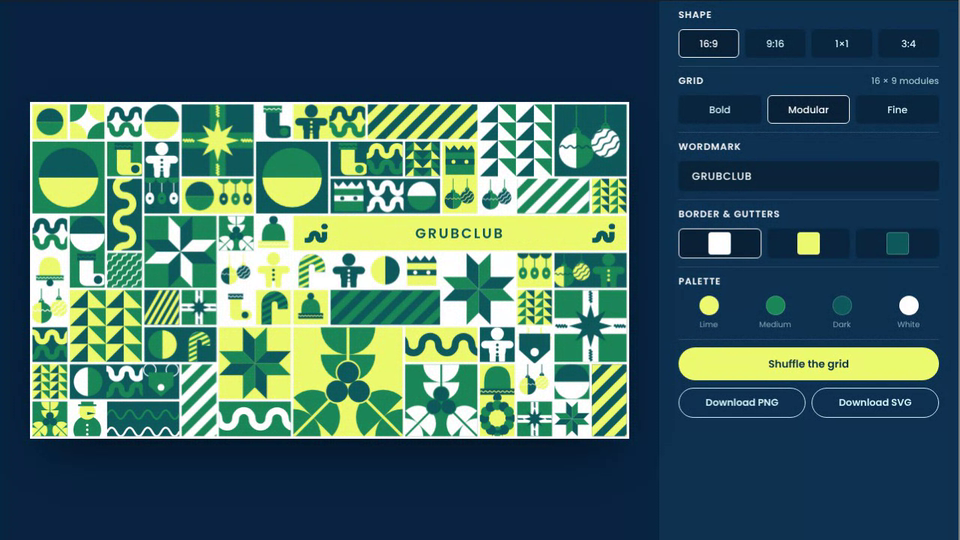
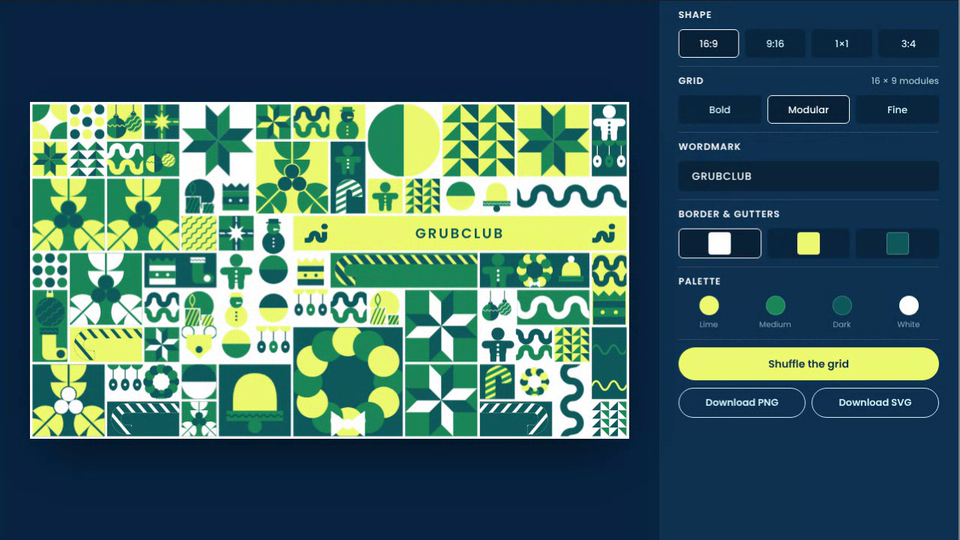
Grubclub Holiday Grid: sideways candy cane rectangle, double candle and elf redrawn from references
Claude-Session: https://claude.ai/code/session_01AHeBdyRCcuLFjvrTGpsW3f

Changed region(s): [[0.0312, 0.1778, 0.6562, 0.8296]]

diff --git a/grubclub-holiday/index.html b/grubclub-holiday/index.html
@@ -149,11 +149,14 @@ const ICON = {
   /* wrapped gift: full tile, ribbon cross, star bow */
   /* thick candy cane with diagonal stripes */
   cane: (k) => { const id = 'cm' + (uid++), d = 'M32 104 V42 A21 21 0 0 1 74 42 V54'; return `<mask id="${id}"><path d="${d}" stroke="#fff" stroke-width="26" fill="none"/></mask><path d="${d}" stroke="${k.a}" stroke-width="26" fill="none"/><g mask="url(#${id})">${Array.from({ length: 16 }, (_, i) => `<path d="M-10 ${i * 17 - 10} L110 ${i * 17 - 70}" stroke="${k.b}" stroke-width="7"/>`).join('')}</g>`; },
-  candle: (k) => `<rect x="30" y="42" width="40" height="58" fill="${k.a}"/><path d="M30 84 L70 60 M30 100 L70 76 M30 68 L70 44" stroke="${k.bg}" stroke-width="2.6" fill="none" clip-path="inset(0)"/>` +
-    `<path d="M50 6 Q66 22 50 38 Q34 22 50 6Z" fill="none" stroke="${k.x}" stroke-width="3.6" stroke-linejoin="round"/>` + line('M50 38 V44', k.a, 3),
+  /* two candles, a tall and a short, striped bodies and outlined flames on a round backdrop; bleeds off the bottom */
+  candle: (k) => { const c1 = 'cd' + (uid++), c2 = 'cd' + (uid++), st = (x0, y0, w2, h2, col, id) => `<clipPath id="${id}"><rect x="${x0}" y="${y0}" width="${w2}" height="${h2}"/></clipPath><g clip-path="url(#${id})">${Array.from({ length: 9 }, (_, i) => `<path d="M${x0 - 6 + i * 11} ${y0 + h2 + 4} L${x0 + 30 + i * 11} ${y0 - 30}" stroke="${col}" stroke-width="3.4"/>`).join('')}</g>`;
+    return circ(50, 44, 41, k.a) + `<rect x="10" y="52" width="42" height="52" fill="${k.a}" stroke="${k.bg}" stroke-width="3.6"/>` + st(10, 52, 42, 52, k.b, c1) + `<rect x="58" y="70" width="32" height="34" fill="${k.b}" stroke="${k.bg}" stroke-width="3.6"/>` + st(58, 70, 32, 34, k.a, c2) +
+      `<path d="M31 12 Q45 28 31 44 Q17 28 31 12Z" fill="none" stroke="${k.b}" stroke-width="2.8" stroke-linejoin="round"/><path d="M31 44 V52" stroke="${k.b}" stroke-width="2.8" stroke-linecap="round"/>` +
+      `<path d="M74 50 Q83 59 74 67 Q65 59 74 50Z" fill="none" stroke="${k.a}" stroke-width="2.6" stroke-linejoin="round"/><path d="M74 67 V70" stroke="${k.a}" stroke-width="2.6" stroke-linecap="round"/>`; },
   stocking: (k) => `<path d="M30 22 H66 V60 H84 A16 16 0 0 1 84 92 H46 A16 16 0 0 1 30 76Z" fill="${k.a}"/><rect x="24" y="8" width="48" height="18" fill="${k.b}"/>` + zig(24, 72, 17, 3.4, 4, k.bg, 2.4) + circ(78, 76, 11, k.b),
-  elf: (k) => poly([[10, 10], [22, 24], [34, 10], [46, 24], [58, 10], [70, 24], [82, 10], [90, 24], [90, 32], [10, 32]], k.b) +
-    `<rect x="10" y="30" width="80" height="62" fill="${k.a}"/><rect x="10" y="48" width="80" height="16" fill="${k.b}"/>` + circ(32, 56, 5.5, k.bg) + circ(68, 56, 5.5, k.bg) + '',
+  /* elf: zigzag crown, a light band with two round eyes between two dark bands */
+  elf: (k) => { const ey = bestOn(k.b, [k.bg, k.a, k.x]); return poly([[8, 34], [8, 8], [22, 22], [36, 8], [50, 22], [64, 8], [78, 22], [92, 8], [92, 34]], k.b) + `<rect x="8" y="34" width="84" height="62" fill="${k.a}"/><rect x="8" y="52" width="84" height="24" fill="${k.b}"/>` + circ(33, 64, 5.2, ey) + circ(67, 64, 5.2, ey); },
   /* snowman: two big circles, hat, a single accent nose */
   snowman: (k) => circ(50, 78, 36, k.a) + circ(50, 31, 21, k.b) + `<rect x="34" y="2" width="32" height="12" rx="1" fill="${k.a}"/><rect x="26" y="12" width="48" height="5" rx="2" fill="${k.a}"/>` +
     poly([[50, 32], [72, 36], [50, 40]], bestOn(k.b, [k.bg, k.a, k.x])) + circ(50, 66, 3.4, bestOn(k.a, [k.bg, k.b, k.x])) + circ(50, 78, 3.4, bestOn(k.a, [k.bg, k.b, k.x])) + circ(50, 90, 3.4, bestOn(k.a, [k.bg, k.b, k.x])),
@@ -195,7 +198,7 @@ const ICON = {
 /* plain split circles (two half circles in varying colour pairs) and the three exact geometric blocks, weighted up */
 const ICONS_FULL = ['ornament', 'reindeer', 'bell', 'hat', 'gift', 'cane', 'candle', 'stocking', 'elf', 'snowman', 'ginger', 'wreath', 'doubleBauble', 'scallop', 'doubleBauble', 'gift', 'squiggle', 'squiggle', 'pinwheel', 'pinwheel', 'pinwheel', 'holly', 'holly', 'holly', 'treeTri', 'treeTri', 'treeTri', 'halfdisc', 'halfdisc', 'halfdisc', 'halfdisc'];
 const FILLERS = ['squiggle', 'halfdisc', 'rings', 'quarters', 'dots', 'tris', 'stripesDiag', 'wavyDiag'];
-const BLEED = { squiggle: 1, tris: 1, quarters: 1, gift: 1, stripesDiag: 1, wavyDiag: 1, scallop: 1, elf: 1 };
+const BLEED = { squiggle: 1, candle: 1, tris: 1, quarters: 1, gift: 1, stripesDiag: 1, wavyDiag: 1, scallop: 1 };
 
 
 /* ---------- contrast: WCAG ratios, so the geometric blocks only use colour sets that read clearly ---------- */
@@ -236,6 +239,12 @@ const BANDS = {
   squiggle: (w, h, k) => { const tall = h > w, W = tall ? h : w, H = tall ? w : h, u = Math.min(W, H), r = u * .24, sw = u * .2, rows = Math.max(1, Math.round(H / (u * 1.05))), [c1, c2] = squigCols(k); let o = '';
     for (let i = 0; i < rows; i++) o += archWave(-2 * r + (i % 2 ? r : 0), H * (i + .5) / rows, r, Math.ceil(W / (2 * r)) + 3, i % 2 ? c2 : c1, sw, i % 2);
     return tall ? `<g transform="translate(${f(w)} 0) rotate(90)">${o}</g>` : o; },
+  /* candy cane lying on its side in a long rectangle: striped stem bleeding off one edge, hook at the other */
+  caneSide: (w, h, k, r) => { const id = 'cs' + (uid++), sw = h * .27, rad = (h * .9 - sw) / 2, ys = h * .05 + sw / 2 + (h * .9 - 2 * rad - sw) / 2, flip = r() < .5, xe = w - h * .12 - rad - sw / 2, c1 = squigCols(k)[0], c2 = bestOn(c1, [k.bg, k.a, k.b, k.x]), st = sw * .62;
+    const d = `M${f(-sw)} ${f(ys)} H${f(xe)} A${f(rad)} ${f(rad)} 0 0 1 ${f(xe)} ${f(ys + 2 * rad)} H${f(xe - rad * .45)}`; let stripes = '';
+    for (let x = -h * 2; x < w + h; x += st * 2) stripes += `<path d="M${f(x)} ${f(h + sw)} L${f(x + h * 1.3)} ${f(-sw)}" stroke="${c2}" stroke-width="${f(st)}"/>`;
+    const g = `<mask id="${id}"><path d="${d}" stroke="#fff" stroke-width="${f(sw)}" fill="none"/></mask><path d="${d}" stroke="${c1}" stroke-width="${f(sw)}" fill="none"/><g mask="url(#${id})">${stripes}</g>`;
+    return flip ? `<g transform="translate(${f(w)} 0) scale(-1 1)">${g}</g>` : g; },
   zigzag: (w, h, k) => { const u = Math.min(w, h) * .5; let s = ''; for (let y = h * .25; y < h; y += h * .5) s += zig(0, w, y + u * .25, u * .5, Math.max(2, Math.round(w / u)), y < h * .5 ? k.a : k.b === k.bg ? k.x : k.b, u * .12); return s; },
   snow: (w, h, k, r) => { let s = ''; const n = Math.round(w * h / 1800); for (let i = 0; i < n; i++) s += circ(r() * w, r() * h, 2 + r() * 5, i % 5 ? k.a : k.x); return s; },
   hang: (w, h, k, r) => { const n = Math.max(2, Math.round(w / h * 6 + 1)); let s = ''; for (let i = 0; i < n; i++) { const x = (i + .5) * w / n, rad = Math.min(w / n * .36, h * .13), y = h * (.35 + r() * .5); s += `<line x1="${f(x)}" y1="0" x2="${f(x)}" y2="${f(y - rad)}" stroke="${k.b === k.bg ? k.a : k.b}" stroke-width="${f(rad * .12 + 1)}"/>` + circ(x, y, rad, [k.a, k.x, k.b === k.bg ? k.a : k.b][i % 3]); } return s; }
@@ -257,6 +266,8 @@ function layout(cols, rows, r) {
   /* hero: big square tile */
   const hs = Math.max(3, Math.min(Math.floor(Math.min(cols, rows) * (S.dens === 2 ? .3 : .4)), 5));
   for (let t = 0; t < 80; t++) { const x = Math.floor(r() * (cols - hs + 1)), y = Math.floor(r() * (rows - hs + 1)); if (fits(x, y, hs, hs)) { put(x, y, hs, hs, 'hero'); break; } }
+  /* a long rectangle for the sideways candy cane */
+  { const cw = Math.min(4, Math.max(2, Math.floor(cols / 3))); for (let t = 0; t < 60; t++) { const x = Math.floor(r() * (cols - cw + 1)), y = Math.floor(r() * rows); if (fits(x, y, cw, 1)) { put(x, y, cw, 1, 'cane'); break; } } }
   /* a few more big squares on bigger grids */
   const big = Math.max(0, Math.floor(Math.min(cols, rows) / 6));
   for (let b = 0; b < big; b++) { const s = hs > 3 ? hs - 1 : 2; for (let t = 0; t < 60; t++) { const x = Math.floor(r() * (cols - s + 1)), y = Math.floor(r() * (rows - s + 1)); if (fits(x, y, s, s)) { put(x, y, s, s, 'icon'); break; } } }
@@ -270,7 +281,7 @@ function layout(cols, rows, r) {
     if (roll > .94) opts.push([3, 1], [1, 3]);
     const sh = opts.find(([w, h]) => fits(x, y, w, h));
     const [w, h] = sh || [1, 1];
-    put(x, y, w, h, w === 1 && h === 1 ? (r() < .14 ? 'filler' : 'icon') : (w !== h ? (r() < .3 ? 'band' : 'multi') : 'icon'));
+    put(x, y, w, h, w === 1 && h === 1 ? (r() < .14 ? 'filler' : 'icon') : (w !== h ? (w >= 2 && h === 1 && r() < .22 ? 'cane' : r() < .3 ? 'band' : 'multi') : 'icon'));
   }
   return tiles;
 }
@@ -310,6 +321,9 @@ function build(anim) {
       const nm = pick(r, ['ornament', 'wreath', 'snowman', 'reindeer', 'gift', 'bell', 'hat', 'pinwheel', 'pinwheel', 'pinwheel', 'holly', 'holly', 'holly', 'treeTri', 'treeTri', 'treeTri']);
       usedRecent.push(nm); if (GEO[nm]) k = GEO[nm](r);
       body = iconSvg(nm, k, x, y, w, h, GEO[nm] ? 0 : mn * .05);
+    } else if (t.kind === 'cane') {
+      k = scheme(r);
+      body = `<g transform="translate(${f(x)} ${f(y)})">${BANDS.caneSide(w, h, k, r)}</g>`;
     } else if (t.kind === 'band' && (t.w !== t.h)) {
       k = scheme(r);
       const name = pick(r, t.w > t.h ? WIDE : ['squiggle', 'squiggle', 'stripes', 'zigzag']);
